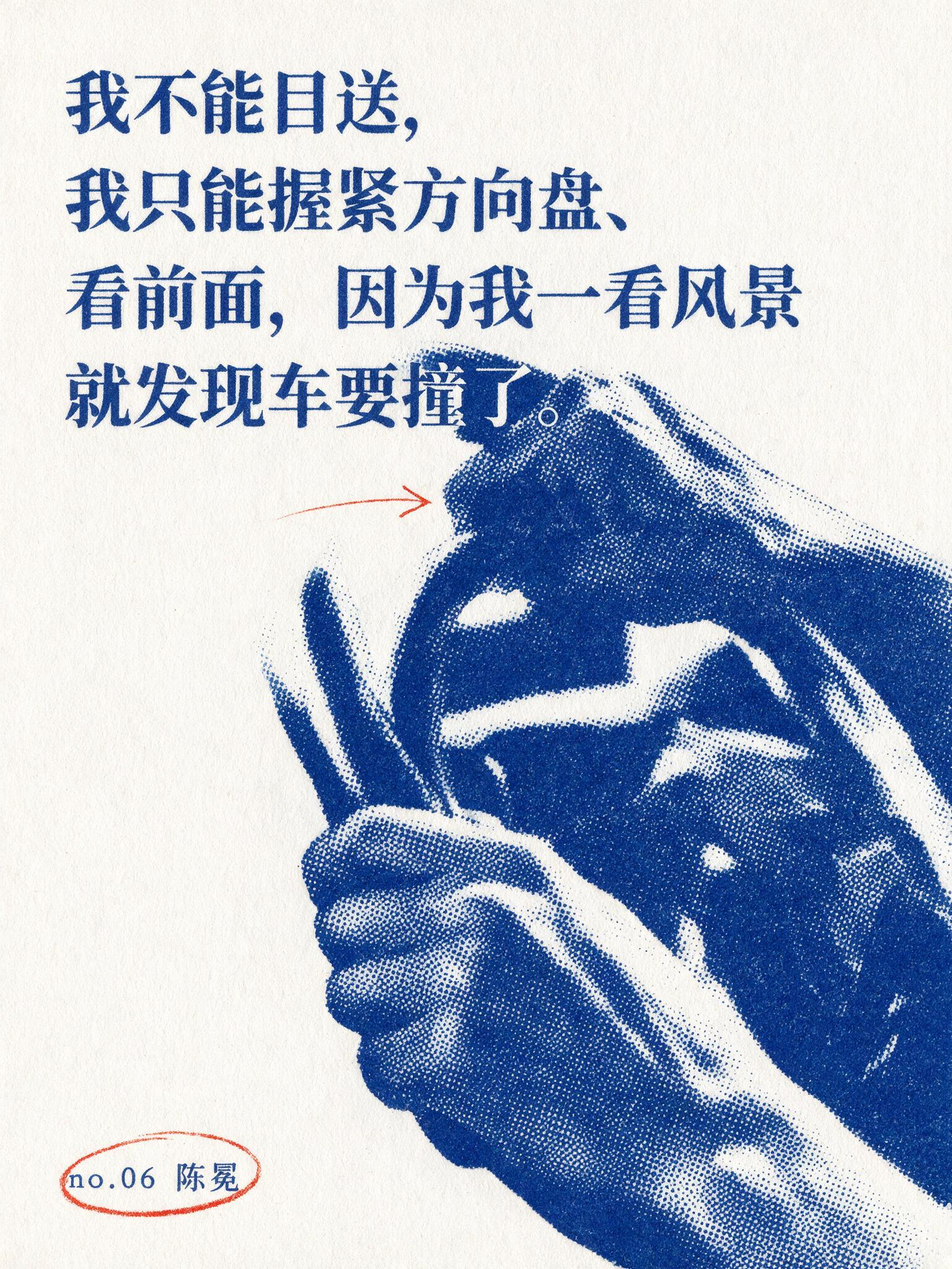
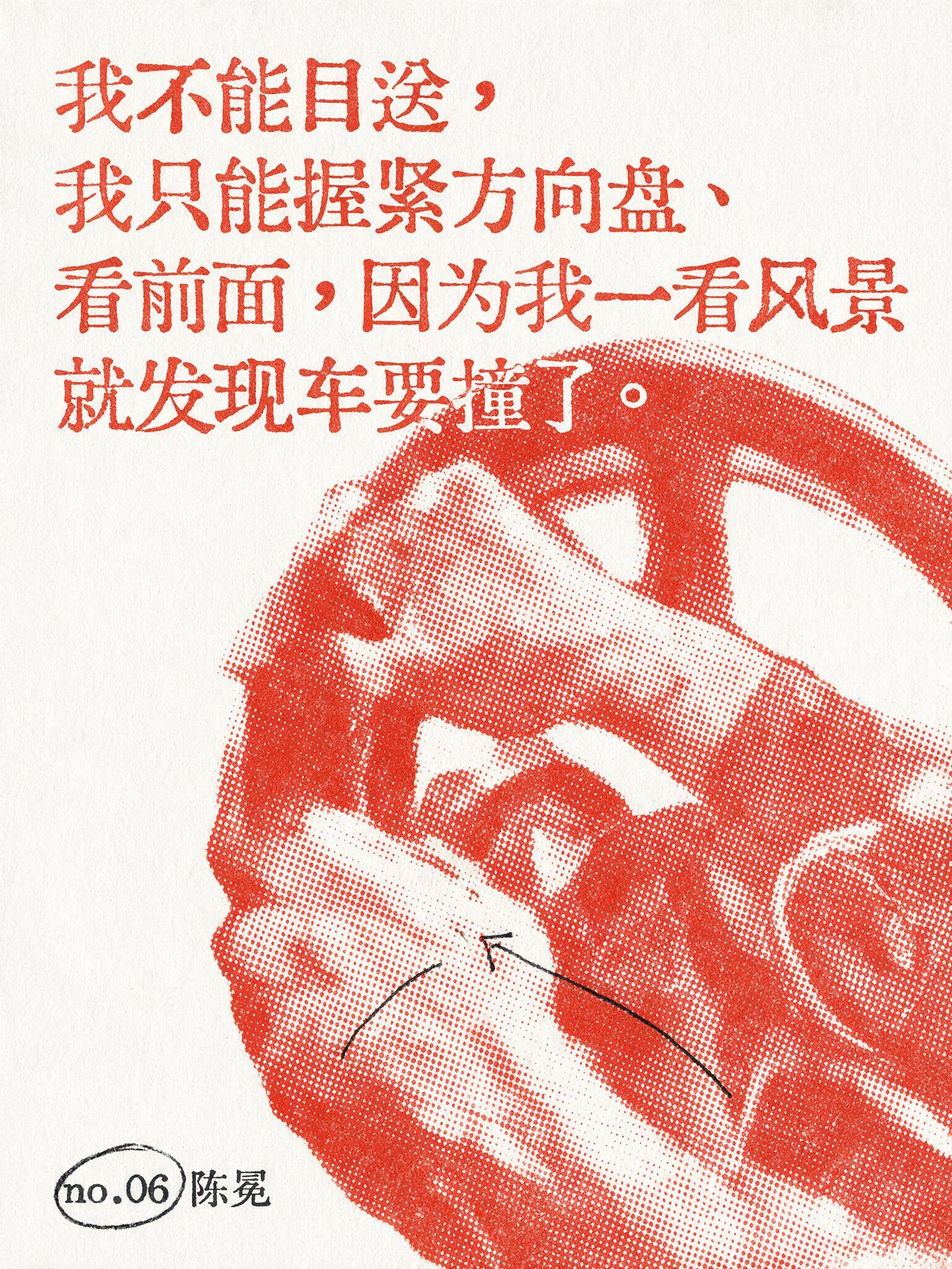
De-blue the library: five pairs, blue holds only two
Tomato x carbon and magenta x carbon join as red and magenta lanes; the
redundant indigo pair retires. Batch rotation returns from v1: adjacent
cards never share a dominant ink and blue never carries more than half a
series. Either ink of a pair may dominate. Three cards reprinted: the
steering wheel goes tomato, the dice go carbon with red pips, the egg
goes magenta.

diff --git a/FINGERPRINT.md b/FINGERPRINT.md
@@ -17,13 +17,13 @@ Every tracked file's SHA-256 in this release. A file found elsewhere that matche
 | File | SHA-256 |
 |---|---|
[16 lines of base64/hex data omitted]

diff --git a/README.md b/README.md
@@ -28,8 +28,11 @@ Original palette, named and mixed in-house. 自研色系，禁用库外色值。
 |---|---|---|
 | 辉蓝 × 熔橙 Aurora × Molten | `#105CBD` × `#E96D3D` | default pair; technology, creation, product |
 | 电蓝 × 碳黑 Electric × Carbon | `#1C39E0` × `#26251F` | big scenes, contemporary culture, charged judgments |
-| 靛青 × 番茄红 Indigo × Tomato | `#2447A6` × `#D93A2B` | declarations, darkest hours, decisions |
+| 番茄红 × 玄墨 Tomato × Carbon | `#D93A2B` × `#2A2B2E` | declarations, darkest hours, decisions, urgency |
 | 翠绿 × 玄墨 Viridian × Carbon | `#0F9155` × `#2A2B2E` | observation, research, the long game |
+| 品红 × 玄墨 Magenta × Carbon | `#D6336C` × `#2A2B2E` | art, feeling, aesthetics, sentences with a sting |
+
+Only two of the five working pairs are blue — red, viridian, and magenta each hold their own lane, and across a batch the pairs rotate: no two adjacent cards share a dominant ink, and blue never carries more than half a series. Either ink of a pair may dominate when the subject calls for it. 五对里蓝只占两对；批产轮值，相邻卡不重主墨，一批里蓝不过半。
 
 One muted heirloom pair — 黛蓝 × 赭石 ink-blue × ochre `#2F4C6B` × `#B26A3C` — is reserved for rice-paper archival subjects, by request only. Working inks stay saturated: a color is either full-strength or off press (a v1 house law). An English word or a numeral inside the sentence may take the accent ink as its job — black-on-Chinese, color-on-the-loanword is part of the series grammar. 工作墨一律高饱和；句中的英文词或数字可升格为副墨差事。
 
